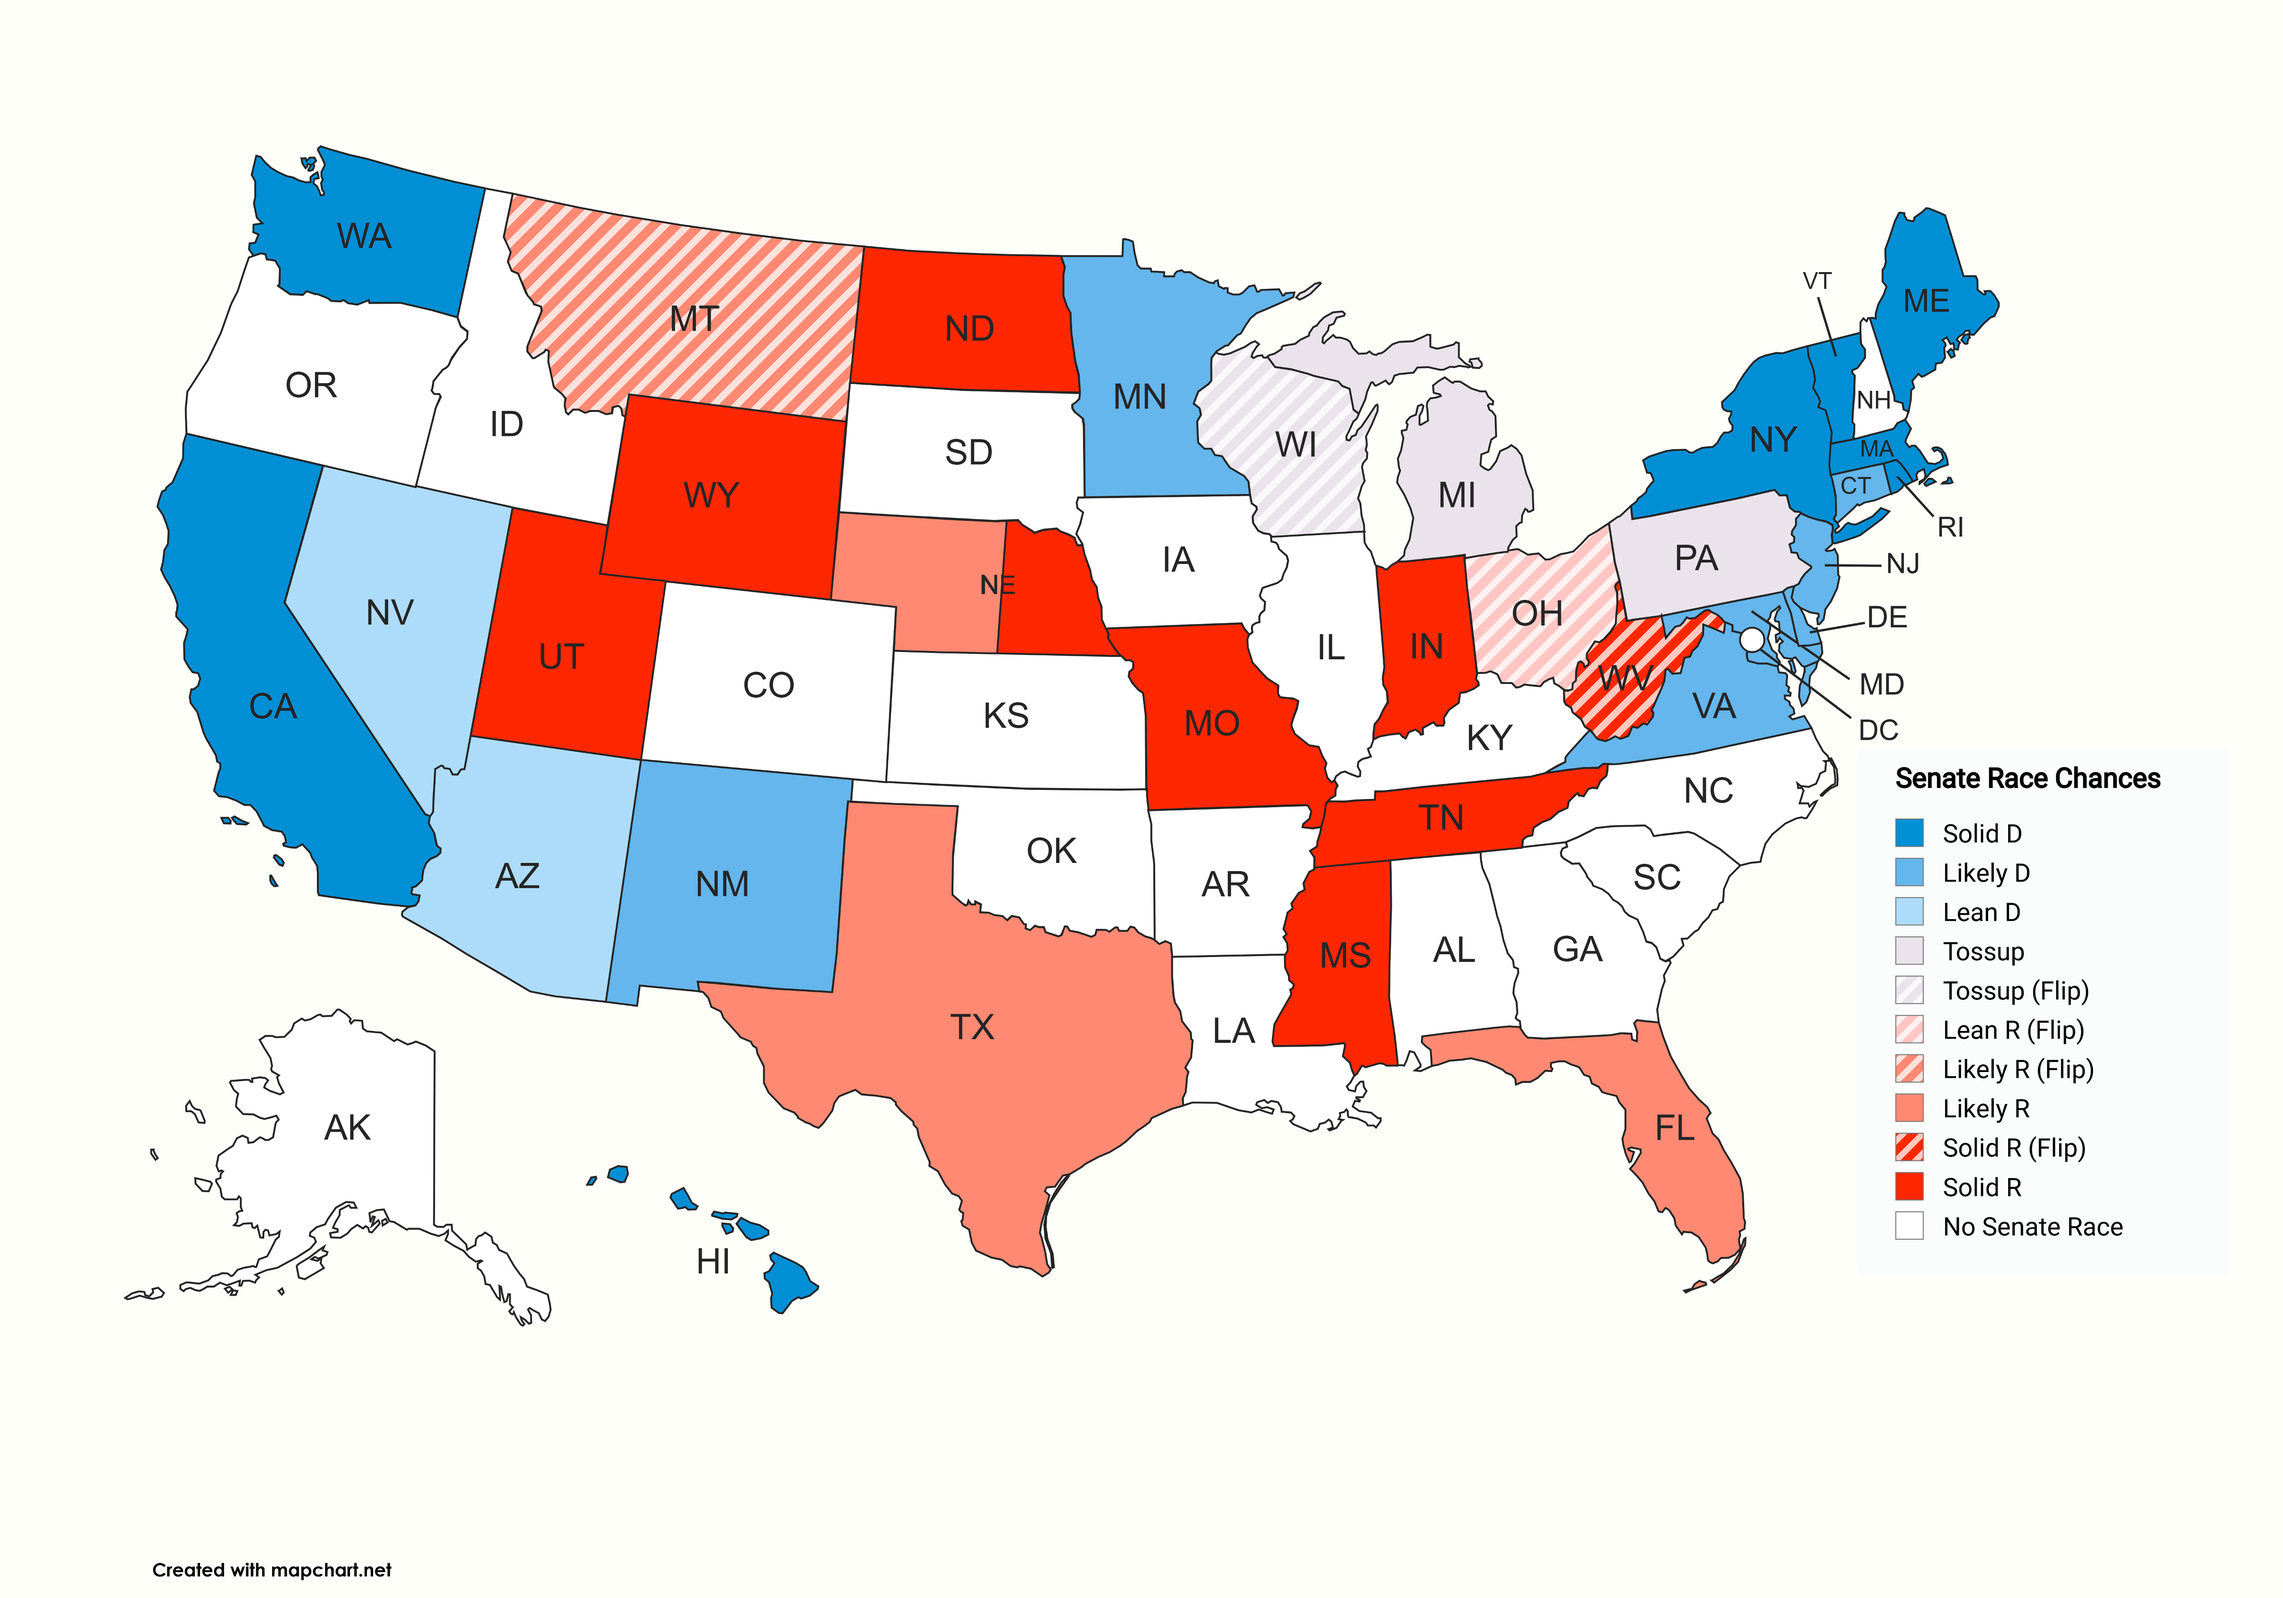
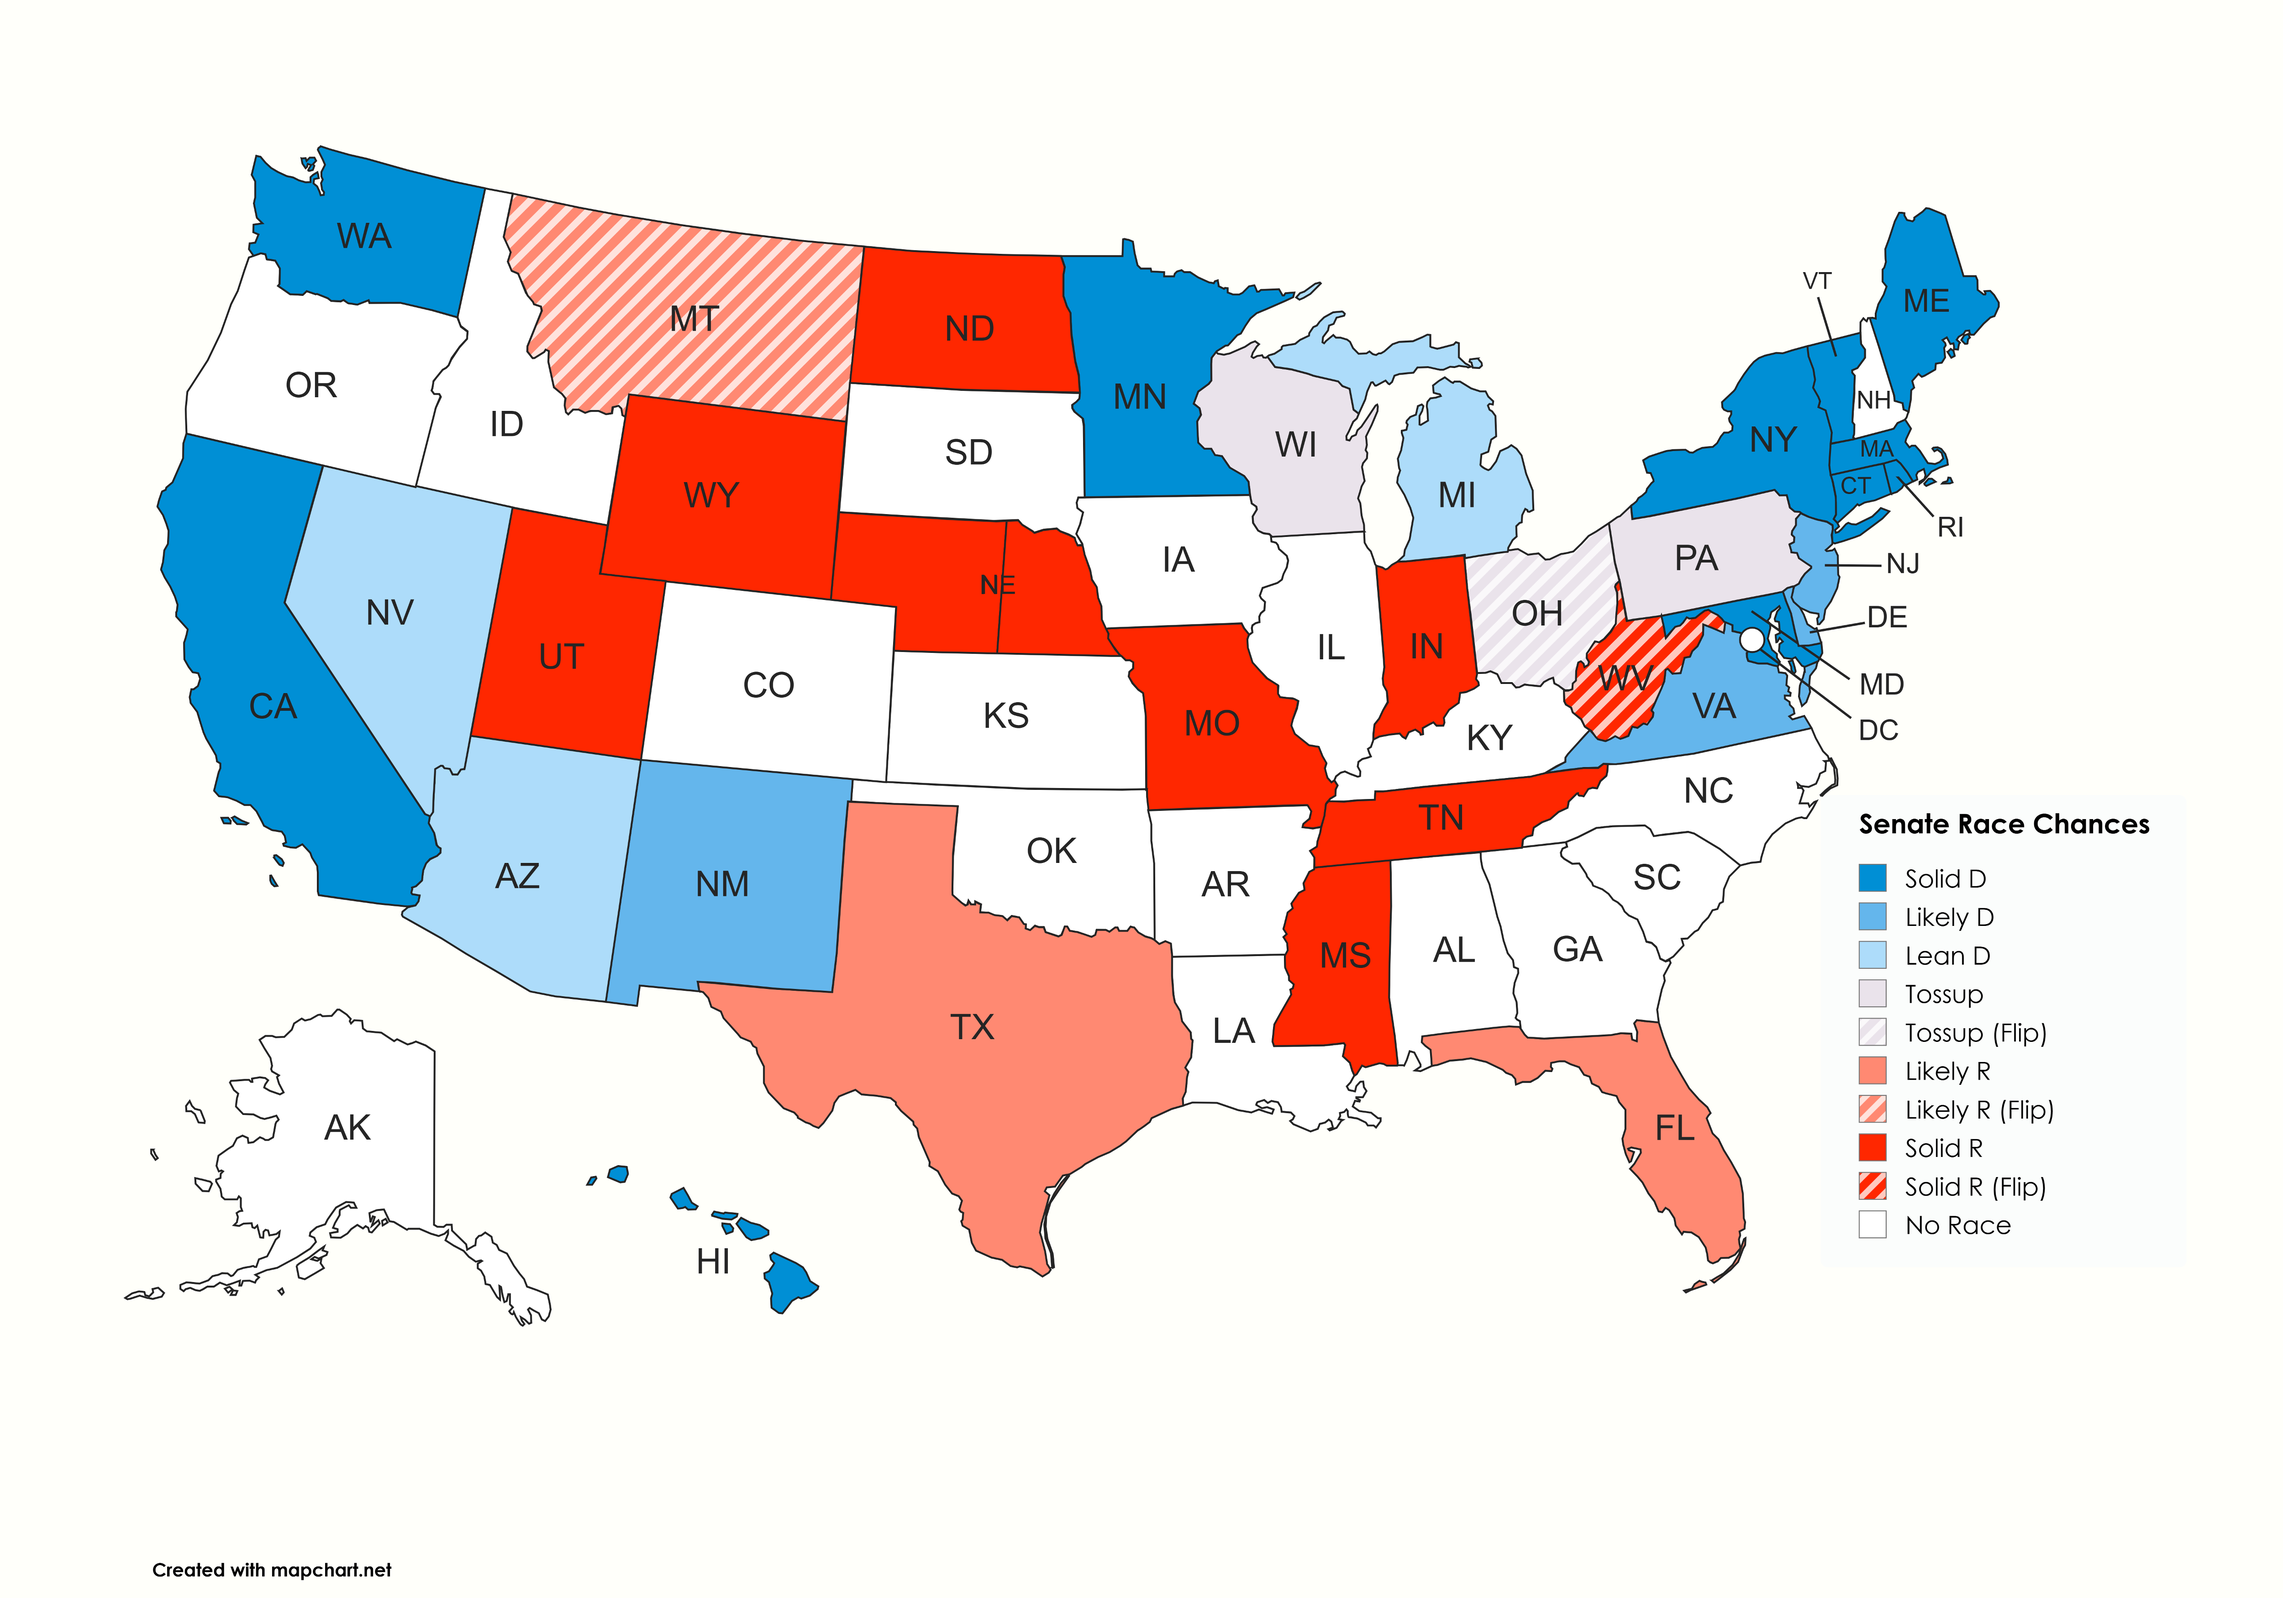
New Fundamentals

diff --git a/Data/Config.py b/Data/Config.py
@@ -15,8 +15,7 @@ startDate =  datetime.date(2024,1,1) # Campaign Start Date
 
 ### National-Level Fundamental Consants
 
-incAvg = 0.4876 # Average incumbent 2-party vote share
-incSigma = 0.0271 # Standard deviation in incumbent 2-party vote share
+incSigma = 0.024 # Standard deviation in incumbent 2-party vote share
 
 
 ### National-Level Polling Constants

diff --git a/Core/Model.py b/Core/Model.py
@@ -74,7 +74,6 @@ class Model:
 
         # Adjust to estimate of national vote
         stateFundEst = np.array(stateFundEst)
-        stateFundEst = stateFundEst + self.geographyHead.fundEst - 0.5
 
         self.xFund = np.array(stateFundEst)
         rho = self.correlation

diff --git a/Drivers/Driver.py b/Drivers/Driver.py
@@ -10,7 +10,7 @@ import csv
 
 
 # Create National object
-nat = National.National('National', C.incAvg, C.incSigma)
+nat = National.National('National', 0, C.incSigma)
 
 # Add State objects
 nat.addChildren(LoadData.states)
